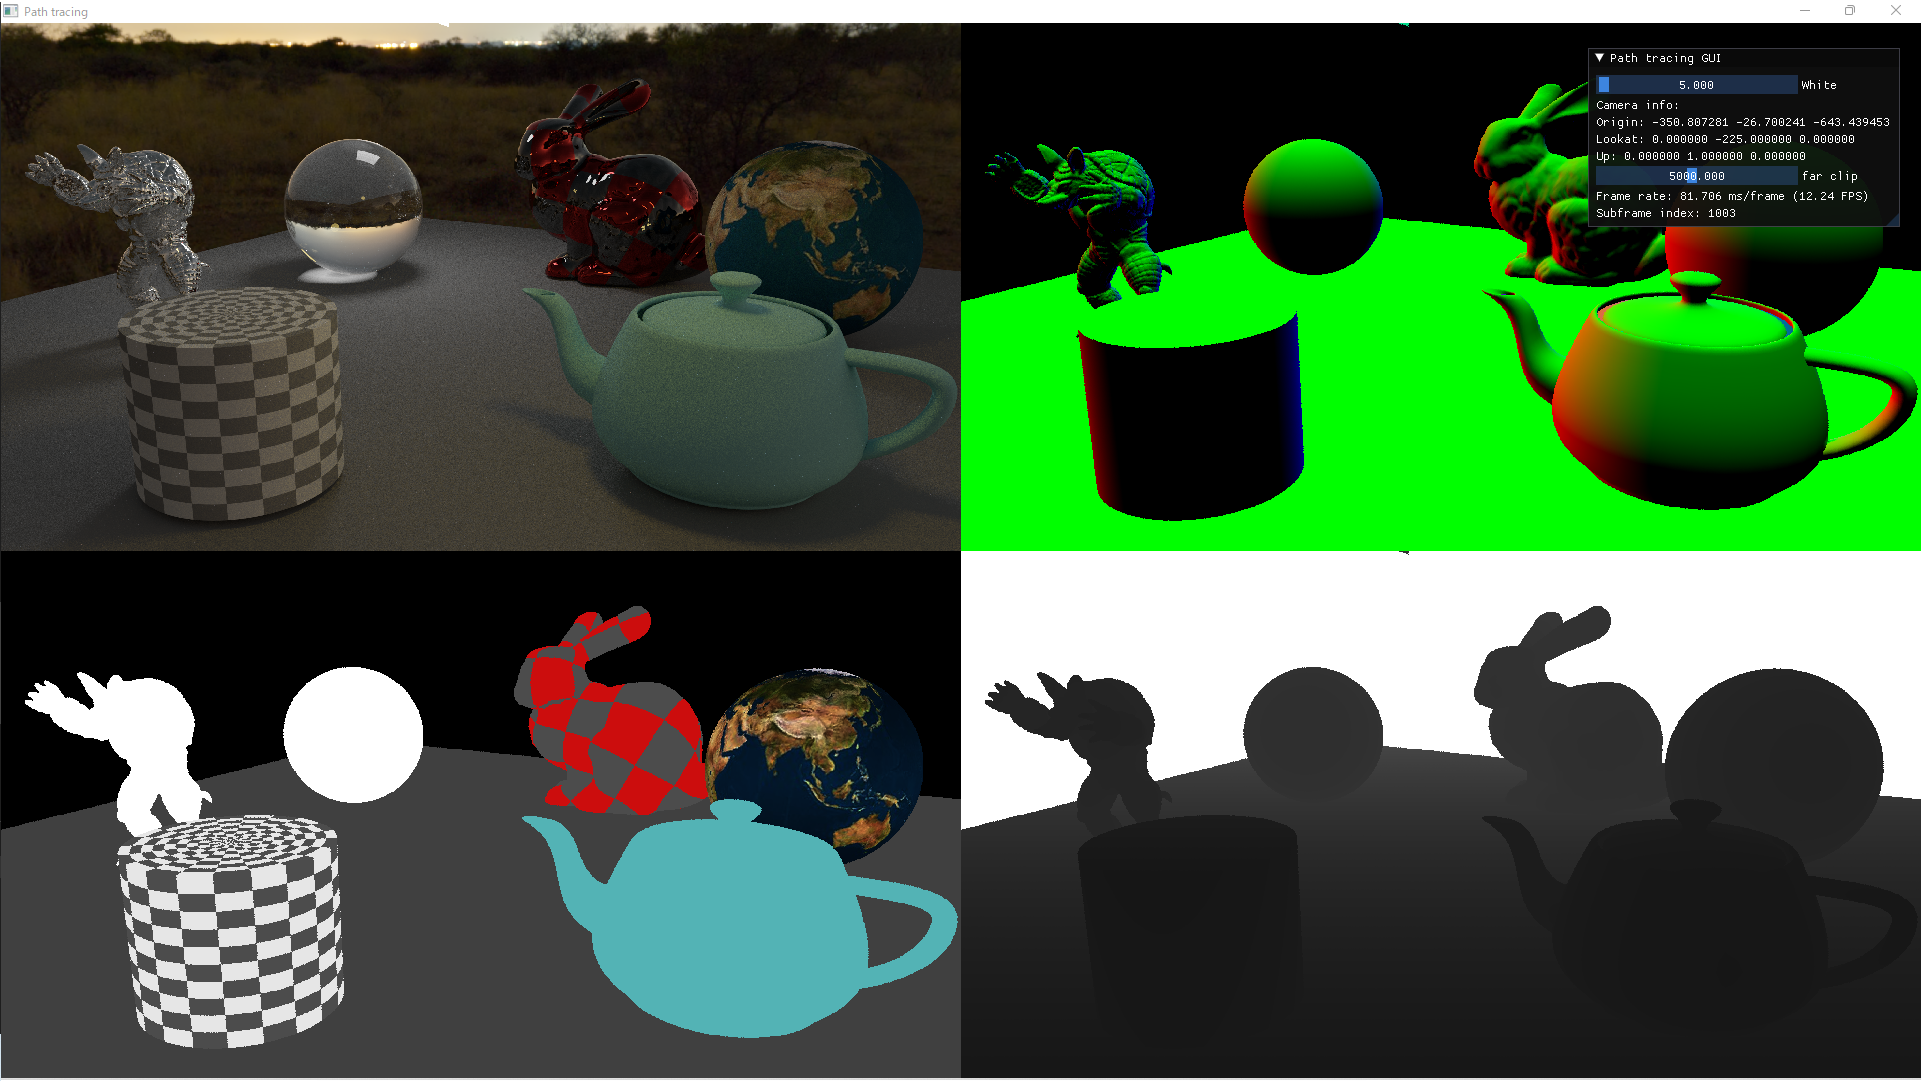
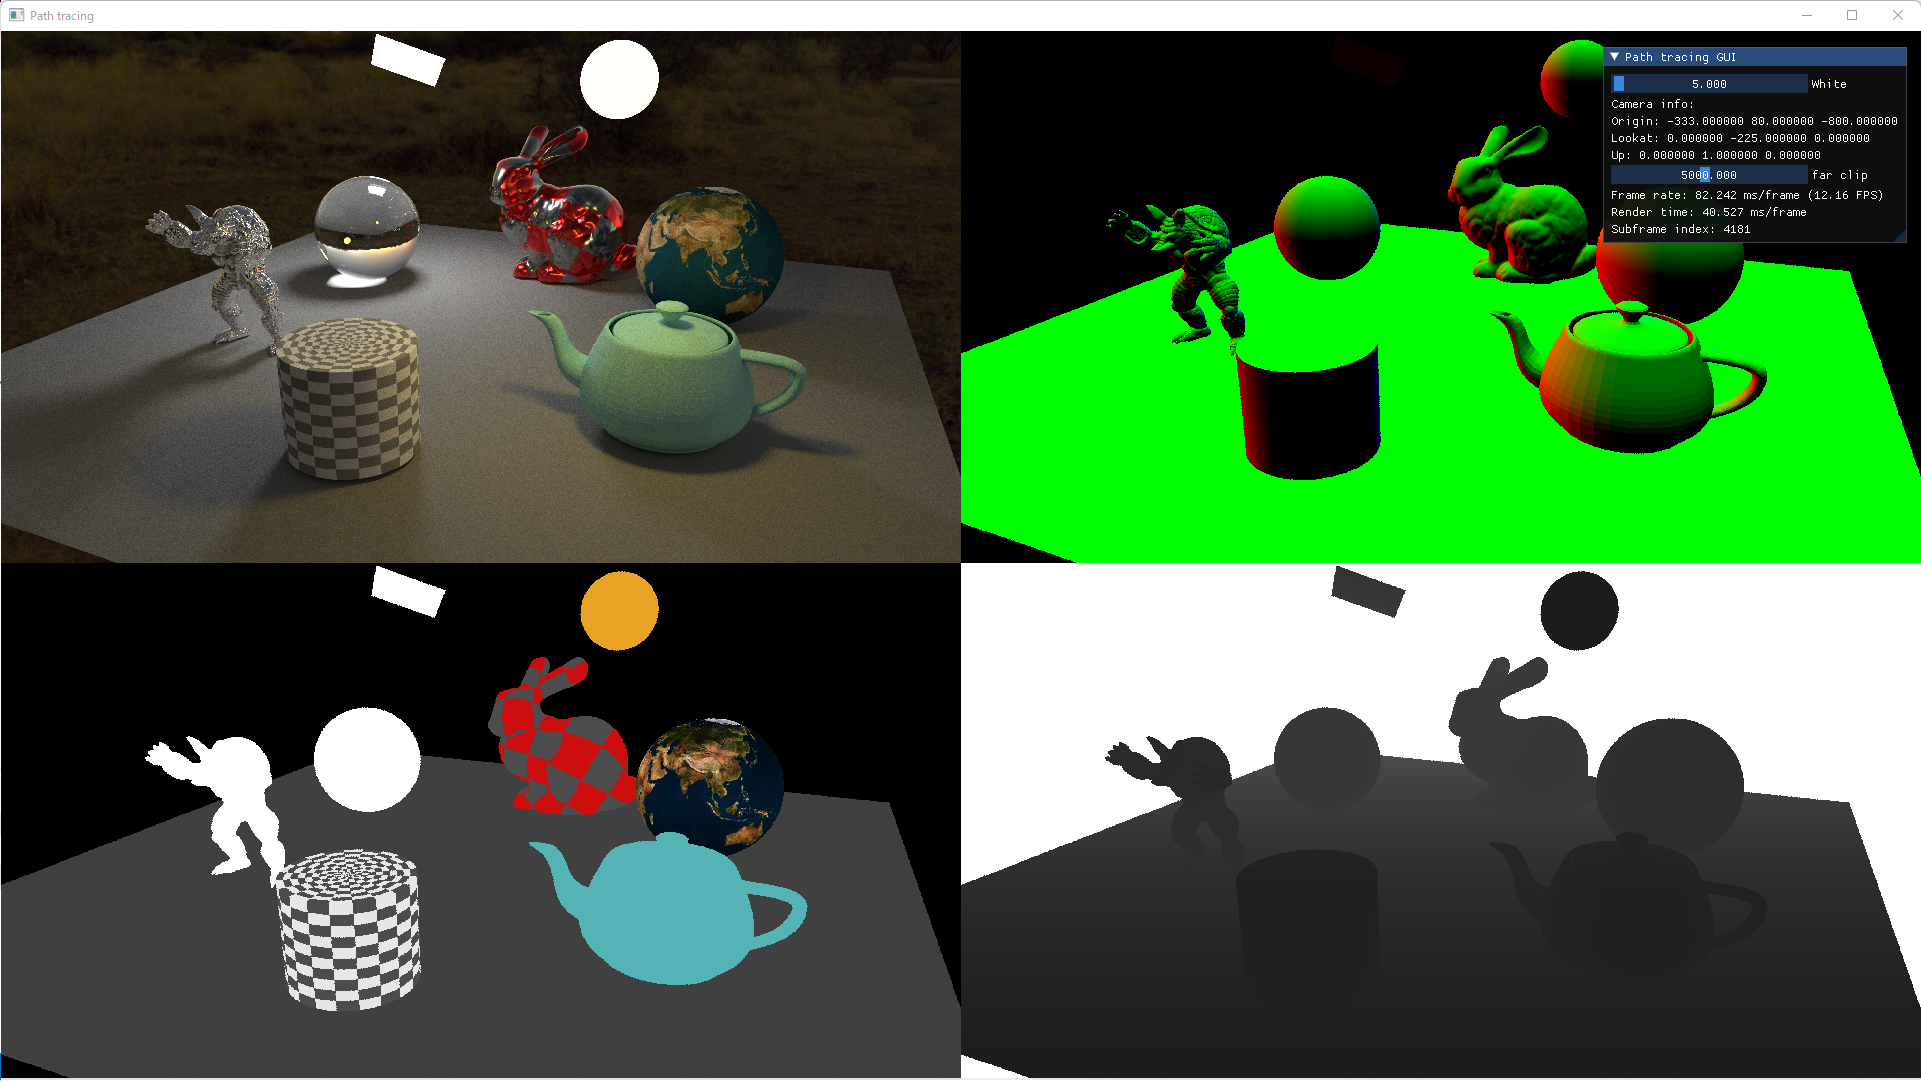
update path tracing example

diff --git a/examples/pathtracing/app.cpp b/examples/pathtracing/app.cpp
@@ -150,14 +150,10 @@ void App::setup()
     // AreaEmitter
     uint32_t area_emitter_prg_id = setupCallable(surfaces_module, DC_FUNC_STR("area_emitter"), "");
 
-    // Shape用のCallableプログラム(主に面光源サンプリング用)
-    uint32_t sphere_sample_pdf_prg_id = setupCallable(hitgroups_module, DC_FUNC_STR("rnd_sample_sphere"), CC_FUNC_STR("pdf_sphere"));
-    uint32_t plane_sample_pdf_prg_id = setupCallable(hitgroups_module, DC_FUNC_STR("rnd_sample_plane"), CC_FUNC_STR("pdf_plane"));
-
     // 環境マッピング (Sphere mapping) 用のテクスチャとデータ準備
     // 画像ファイルはリポジトリには含まれていないので、任意の画像データを設定してください
-    // auto env_texture = make_shared<FloatBitmapTexture>("resources/image/dikhololo_night_4k.exr", bitmap_prg_id); 
-    auto env_texture = make_shared<ConstantTexture>(make_float3(0.0f), constant_prg_id);
+     auto env_texture = make_shared<FloatBitmapTexture>("resources/image/dikhololo_night_4k.exr", bitmap_prg_id); 
+    //auto env_texture = make_shared<ConstantTexture>(make_float3(0.0f), constant_prg_id);
     env_texture->copyToDevice();
     env = EnvironmentEmitter{env_texture};
     env.copyToDevice();
@@ -240,21 +236,13 @@ void App::setup()
         sbt_offset += PathTracingSBT::NRay;
     };
 
-    std::vector<AreaEmitterInfo> area_emitter_infos;
-    // 面光源用のSBTデータを用意しグローバル情報としての光源情報を追加するLambda関数
-    // 光源サンプリング時にCallable関数ではOptixInstanceに紐づいた行列情報を取得できないので
-    // 行列情報をAreaEmitterInfoに一緒に設定しておく
-    // ついでにShapeInstanceによって光源用のGASも追加
+    // 面光源用のSBTデータを用意するLambda関数
     auto setupAreaEmitter = [&](
         ProgramGroup& prg, ProgramGroup& shadow_prg, 
         shared_ptr<Shape> shape,
-        AreaEmitter area, Matrix4f transform, 
-        uint32_t sample_pdf_id
+        AreaEmitter area, Matrix4f transform
     )
-    {
-        // Plane or Sphereにキャスト可能かチェック
-        Assert(dynamic_pointer_cast<Plane>(shape) || dynamic_pointer_cast<Sphere>(shape), "The shape of area emitter must be a plane or sphere.");
-        
+    {        
         shape->copyToDevice();
         shape->setSbtIndex(sbt_idx);
         area.copyToDevice();
@@ -267,9 +255,9 @@ void App::setup()
             .surface_info = 
             {
                 .data = area.devicePtr(),
-                .sample_id = sample_pdf_id,
+                .sample_id = area_emitter_prg_id, // 使わない
                 .bsdf_id = area_emitter_prg_id,
-                .pdf_id = sample_pdf_id,
+                .pdf_id = area_emitter_prg_id,    // 使わない
                 .type = SurfaceType::AreaEmitter
             }
         };
@@ -291,17 +279,6 @@ void App::setup()
 
         instance_id++;
         sbt_offset += PathTracingSBT::NRay;
-
-        AreaEmitterInfo area_emitter_info = 
-        {
-            .shape_data = shape->devicePtr(), 
-            .objToWorld = transform,
-            .worldToObj = transform.inverse(), 
-            .sample_id = sample_pdf_id, 
-            .pdf_id = sample_pdf_id, 
-            .gas_handle = instance.handle()
-        };
-        area_emitter_infos.push_back(area_emitter_info);
     };
 
     // Bunny
@@ -421,7 +398,7 @@ void App::setup()
         // Area emitter
         auto plane_area_emitter = AreaEmitter(white, 50.0f);
         Matrix4f transform = Matrix4f::translate({200.0f, 50.0f, 200.0f}) * Matrix4f::rotate(math::pi / 4.0f, {0.5f, 0.5f, 0.2f}) * Matrix4f::scale(50.0f);
-        setupAreaEmitter(plane_prg, plane_shadow_prg, plane_light, plane_area_emitter, transform, plane_sample_pdf_prg_id);
+        setupAreaEmitter(plane_prg, plane_shadow_prg, plane_light, plane_area_emitter, transform);
     }
 
     // 面光源2 : Sphere
@@ -434,14 +411,8 @@ void App::setup()
         // Area emitter
         auto sphere_area_emitter = AreaEmitter(orange, 50.0f);
         Matrix4f transform = Matrix4f::translate({-200.0f, 50.0f, -200.0f}) * Matrix4f::scale(30.0f);
-        setupAreaEmitter(sphere_prg, sphere_shadow_prg, sphere_light, sphere_area_emitter, transform, sphere_sample_pdf_prg_id);
+        setupAreaEmitter(sphere_prg, sphere_shadow_prg, sphere_light, sphere_area_emitter, transform);
     }
-
-    // 光源データをGPU側にコピー
-    CUDABuffer<AreaEmitterInfo> d_area_emitter_infos;
-    d_area_emitter_infos.copyToDevice(area_emitter_infos);
-    params.lights = d_area_emitter_infos.deviceData();
-    params.num_lights = static_cast<int>(area_emitter_infos.size());
 
     CUDA_CHECK(cudaStreamCreate(&stream));
     scene_ias.build(context, stream);

diff --git a/examples/pathtracing/params.h b/examples/pathtracing/params.h
@@ -8,19 +8,6 @@
 
 using namespace prayground;
 
-// GAS handleも置いておくと光源のみへの交差判定を走らせることができる？
-struct AreaEmitterInfo
-{
-    void* shape_data;
-    Matrix4f objToWorld;
-    Matrix4f worldToObj;
-
-    unsigned int sample_id;
-    unsigned int pdf_id;
-
-    OptixTraversableHandle gas_handle;
-};
-
 struct LaunchParams 
 {
     unsigned int width, height;
@@ -33,9 +20,6 @@ struct LaunchParams
     float3* albedo_buffer;
     float* depth_buffer;
     OptixTraversableHandle handle;
-
-    AreaEmitterInfo* lights;
-    int num_lights;
 
     float white;
 };
